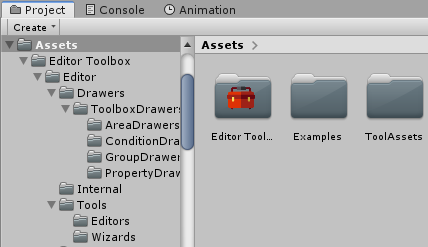
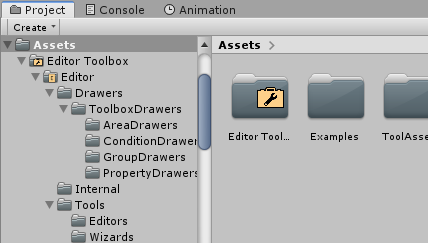
Added FolderData inspector drawer

Changed region(s): [[0.0, 0.0864, 1.0, 1.0], [0.0607, 0.0288, 0.1519, 0.0576], [0.3949, 0.0288, 0.4252, 0.0576]]

diff --git a/Assets/Editor Toolbox/Editor/Drawers/FolderDataDrawer.cs b/Assets/Editor Toolbox/Editor/Drawers/FolderDataDrawer.cs
@@ -1,0 +1,90 @@
+using UnityEditor;
+using UnityEngine;
+
+namespace Toolbox.Editor.Drawers
+{
+    [CustomPropertyDrawer(typeof(FolderData))]
+    public class FolderDataDrawer : PropertyDrawer
+    {
+        public override float GetPropertyHeight(SerializedProperty property, GUIContent label)
+        {
+            return EditorGUI.GetPropertyHeight(property, label) + (property.isExpanded ? Style.iconHeight : 0.0f);
+        }
+
+        public override void OnGUI(Rect position, SerializedProperty property, GUIContent label)
+        {
+            //draw property field in native way 
+            EditorGUI.PropertyField(position, property, label, property.isExpanded);
+
+            if (!property.isExpanded)
+            {
+                //adjust position for small icon and draw it in label field
+                var smallIconRect = new Rect(position.xMax - Style.smallIconWidth, position.yMin - Style.spacing, Style.smallIconWidth, Style.smallIconHeight);
+
+                GUI.DrawTexture(smallIconRect, Style.folderTexture);
+                return;
+            }
+
+            //get icons properties
+            var bigIconProperty = property.FindPropertyRelative("icon");
+            var smallIconProperty = property.FindPropertyRelative("smallIcon");
+
+            //get specific rects for folder icons
+            var bigFolderIconRect = new Rect(position.x, position.yMax - Style.iconHeight, Style.iconWidth, Style.iconHeight);
+            var smallFolderIconRect = new Rect(position.x + Style.iconWidth,
+                bigFolderIconRect.y + Style.smallIconHeight / 2 - Style.spacing, Style.smallIconWidth, Style.smallIconHeight);
+
+            //draw folder icons using desired content
+            GUI.DrawTexture(bigFolderIconRect, Style.folderTexture);
+            GUI.DrawTexture(smallFolderIconRect, Style.folderTexture);
+
+            //handle big icon texture preview if exist
+            if (bigIconProperty.objectReferenceValue)
+            {
+                var previewTexture = bigIconProperty.objectReferenceValue as Texture;
+
+                //adjust big icon rect using predefined style properties
+                bigFolderIconRect.x += bigFolderIconRect.width * ToolboxEditorProject.Style.xToWidthRatio;
+                bigFolderIconRect.y += bigFolderIconRect.height * ToolboxEditorProject.Style.yToHeightRatio;
+                bigFolderIconRect.width = ToolboxEditorProject.Style.iconWidth;
+                bigFolderIconRect.height = ToolboxEditorProject.Style.iconHeight;
+
+                //draw big preview icon
+                GUI.DrawTexture(bigFolderIconRect, previewTexture);
+            }
+
+            //handle small icon texture preview if exist
+            if (smallIconProperty.objectReferenceValue)
+            {
+                var previewTexture = smallIconProperty.objectReferenceValue as Texture;
+
+                //adjust small icon rect using predefined style properties
+                smallFolderIconRect.x += smallFolderIconRect.width * ToolboxEditorProject.Style.xToWidthRatioSmall;
+                smallFolderIconRect.y += smallFolderIconRect.height * ToolboxEditorProject.Style.yToHeightRatioSmall;
+                smallFolderIconRect.width = ToolboxEditorProject.Style.iconWidthSmall;
+                smallFolderIconRect.height = ToolboxEditorProject.Style.iconHeightSmall;
+
+                //draw small preview icon
+                GUI.DrawTexture(smallFolderIconRect, previewTexture);
+            }
+        }
+
+
+        private static class Style
+        {
+            internal const float spacing = 2.0f;
+
+            internal const float iconWidth = ToolboxEditorProject.Style.folderIconWidth;
+            internal const float iconHeight = ToolboxEditorProject.Style.folderIconHeight;
+            internal const float smallIconWidth = ToolboxEditorProject.Style.folderIconWidthSmall;
+            internal const float smallIconHeight = ToolboxEditorProject.Style.folderIconHeightSmall;
+
+            internal static readonly Texture2D folderTexture;
+
+            static Style()
+            {
+                folderTexture = EditorGUIUtility.FindTexture("Folder Icon");
+            }
+        }
+    }
+}

diff --git a/Assets/Editor Toolbox/Editor/ToolboxEditorProject.cs b/Assets/Editor Toolbox/Editor/ToolboxEditorProject.cs
@@ -33,6 +33,9 @@ namespace Toolbox.Editor
             {
                 if (data.SmallIcon == null) return;
 
+                //determinate exact folder icon rect
+                rect = new Rect(rect.xMin, rect.y, Style.folderIconWidthSmall, Style.folderIconHeightSmall);
+
                 rect.x += rect.width * Style.xToWidthRatioSmall;
                 rect.y += rect.height * Style.yToHeightRatioSmall;
                 rect.width = Style.iconWidthSmall;
@@ -44,6 +47,9 @@ namespace Toolbox.Editor
             {
                 if (data.Icon == null) return;
 
+                //determinate exact folder icon rect
+                rect = new Rect(rect.x, rect.yMin, Style.folderIconWidth, Style.folderIconHeight);
+       
                 rect.x += rect.width * Style.xToWidthRatio;
                 rect.y += rect.height * Style.yToHeightRatio;
                 rect.width = Style.iconWidth;
@@ -58,19 +64,27 @@ namespace Toolbox.Editor
         {
             //x ratio will determinate OX position of icon
             internal const float xToWidthRatio = 0.43f;
-            internal const float xToWidthRatioSmall = 0.025f;
+            internal const float xToWidthRatioSmall = 0.25f;
 
             //y ratio will determinate OY position of icon
-            internal const float yToHeightRatio = 0.25f;
-            internal const float yToHeightRatioSmall = 0.4f;
+            internal const float yToHeightRatio = 0.3f;
+            internal const float yToHeightRatioSmall = 0.3f;
 
-            //icon width used to draw texture in proper rect
+            //big icon dimensions
             internal const float iconWidth = 29.0f;
-            internal const float iconWidthSmall = 10.0f;
-
-            //icon height used to draw texture in proper rect
             internal const float iconHeight = 29.0f;
+
+            //small icon dimensions
+            internal const float iconWidthSmall = 10.0f;
             internal const float iconHeightSmall = 10.0f;
+
+            //big folder icon dimensions
+            internal const float folderIconWidth = 64.0f;
+            internal const float folderIconHeight = 64.0f;
+
+            //small folder icon dimensions
+            internal const float folderIconWidthSmall = 16.0f;
+            internal const float folderIconHeightSmall = 16.0f;
         }
     }
 
@@ -80,9 +94,9 @@ namespace Toolbox.Editor
     {
         [SerializeField, Directory, Tooltip("Relative path from Assets directory.")]
         private string path;
-        [SerializeField, AssetPreview(ToolboxEditorProject.Style.iconWidth, ToolboxEditorProject.Style.iconHeight)]
+        [SerializeField]
         private Texture icon;
-        [SerializeField, AssetPreview(ToolboxEditorProject.Style.iconWidthSmall, ToolboxEditorProject.Style.iconHeightSmall)]
+        [SerializeField]
         private Texture smallIcon;
 
 

diff --git a/Assets/Editor Toolbox/Editor/Drawers/AssetPreviewAttributeDrawer.cs b/Assets/Editor Toolbox/Editor/Drawers/AssetPreviewAttributeDrawer.cs
@@ -47,9 +47,9 @@ namespace Toolbox.Editor
             }
             else
             {
-                //setting additional height as opposite label
+                //set additional height as opposite label
                 additionalHeight -= Style.height;
-                //adjusting OY position since we need no label
+                //adjust OY position since we need no label
                 position.y -= Style.height;
             }
 
@@ -59,26 +59,26 @@ namespace Toolbox.Editor
 
                 if (!previewTexture) return;
 
-                //caching indent difference
+                //cache indent difference
                 var indent = position.width - EditorGUI.IndentedRect(position).width;
-                //setting image style
+                //set image style
                 var width = Mathf.Clamp(Attribute.Width, 0, previewTexture.width);
                 var height = Mathf.Clamp(Attribute.Height, 0, previewTexture.height);
 
                 Style.textureStyle.normal.background = previewTexture;
-                //setting additional height as preview + 2x spacing + 2x frame offset
+                //set additional height as preview + 2x spacing + 2x frame offset
                 additionalHeight += height + Style.frameSize * 2 + Style.spacing * 2;
                 position.height = height + Style.frameSize;
                 position.width = width + Style.frameSize + indent;
                 position.y += Style.height + Style.spacing;
-                //drawing frame
+                //draw frame
                 EditorGUI.LabelField(position, GUIContent.none, Style.backgroundStyle);
                 position.height = height;
                 position.width = width + indent;
-                //adjusting image to frame center
+                //adjust image to frame center
                 position.y += Style.frameSize / 2;
                 position.x += Style.frameSize / 2;
-                //drawing preview texture
+                //draw preview texture
                 EditorGUI.LabelField(position, GUIContent.none, Style.textureStyle);
             }
         }

diff --git a/Assets/Editor Toolbox/Scripts/BezierSpline.cs b/Assets/Editor Toolbox/Scripts/BezierSpline.cs
@@ -1,0 +1,9 @@
+using UnityEngine;
+
+namespace Toolbox
+{
+    public class BezierSpline : MonoBehaviour
+    {
+
+    }
+}

diff --git a/Assets/Editor Toolbox/README.md b/Assets/Editor Toolbox/README.md
@@ -314,7 +314,9 @@ Set custom folder icons in **ToolboxEditorSettings**.
 
 > Editor Toolbox/Editor/ToolboxEditorProject.cs
 
-![inspector](https://github.com/arimger/Unity-Editor-Toolbox/blob/develop/Documentation/doc12.png)
+![inspector](https://github.com/arimger/Unity-Editor-Toolbox/blob/develop/Documentation/doc12.png)  
+
+
 ![inspector](https://github.com/arimger/Unity-Editor-Toolbox/blob/develop/Documentation/doc11.png)
 
 ### Toolbar <a name="toolbar"></a>

diff --git a/README.md b/README.md
@@ -314,7 +314,9 @@ Set custom folder icons in **ToolboxEditorSettings**.
 
 > Editor Toolbox/Editor/ToolboxEditorProject.cs
 
-![inspector](https://github.com/arimger/Unity-Editor-Toolbox/blob/develop/Documentation/doc12.png)
+![inspector](https://github.com/arimger/Unity-Editor-Toolbox/blob/develop/Documentation/doc12.png)  
+
+
 ![inspector](https://github.com/arimger/Unity-Editor-Toolbox/blob/develop/Documentation/doc11.png)
 
 ### Toolbar <a name="toolbar"></a>
